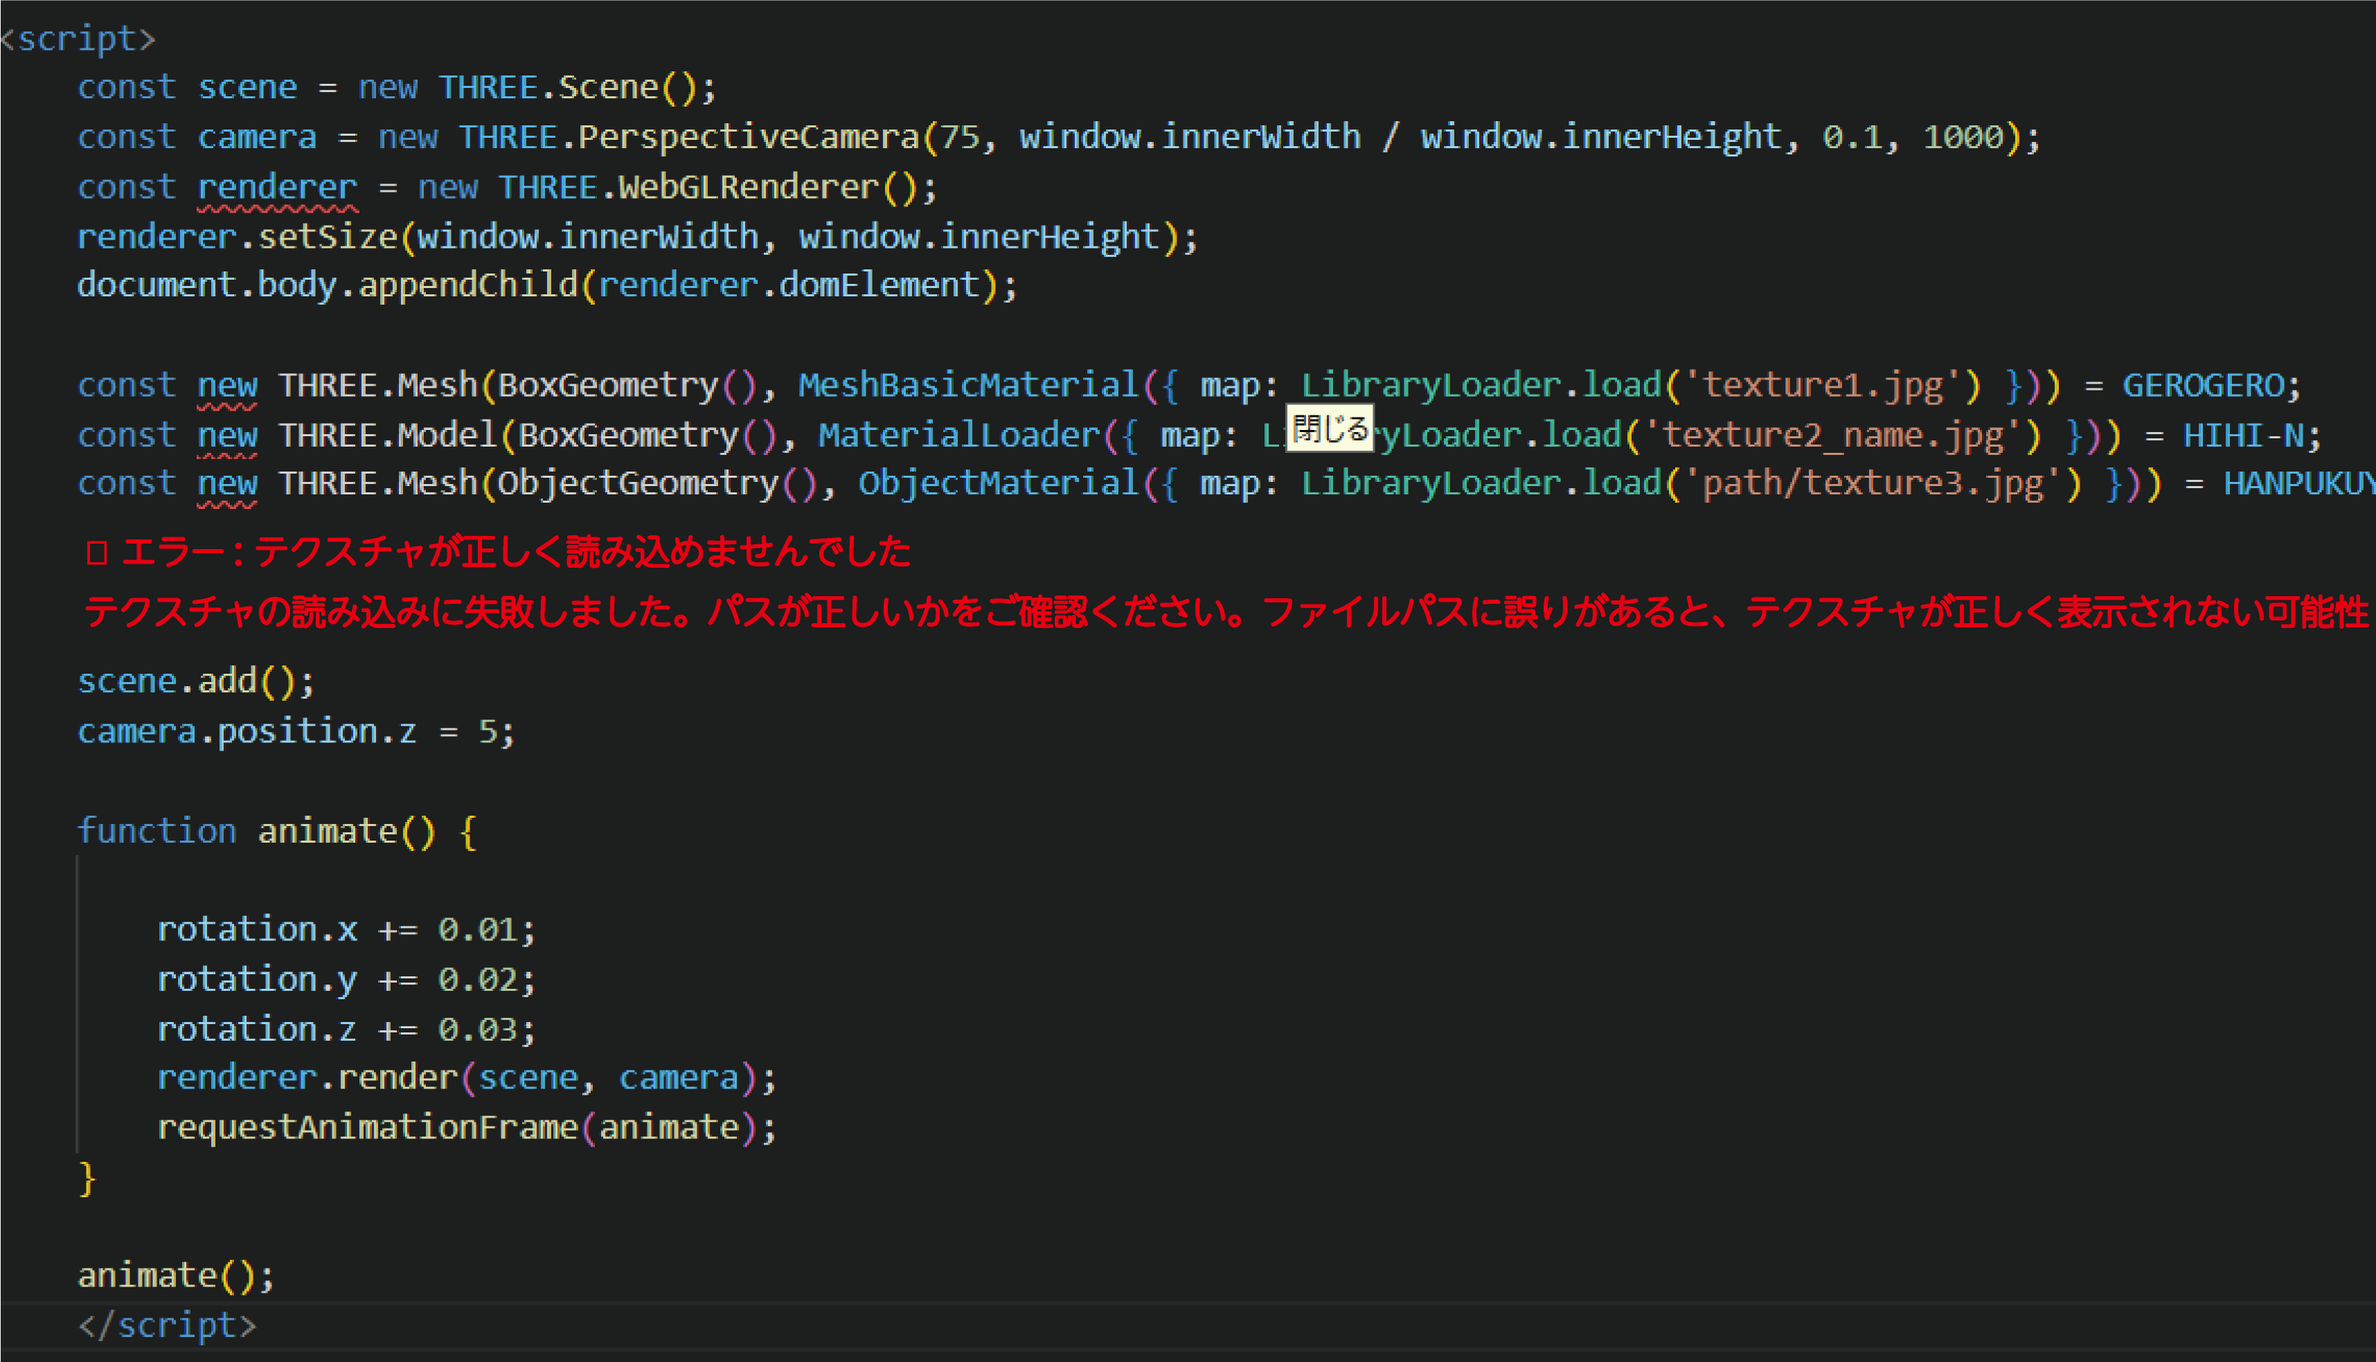
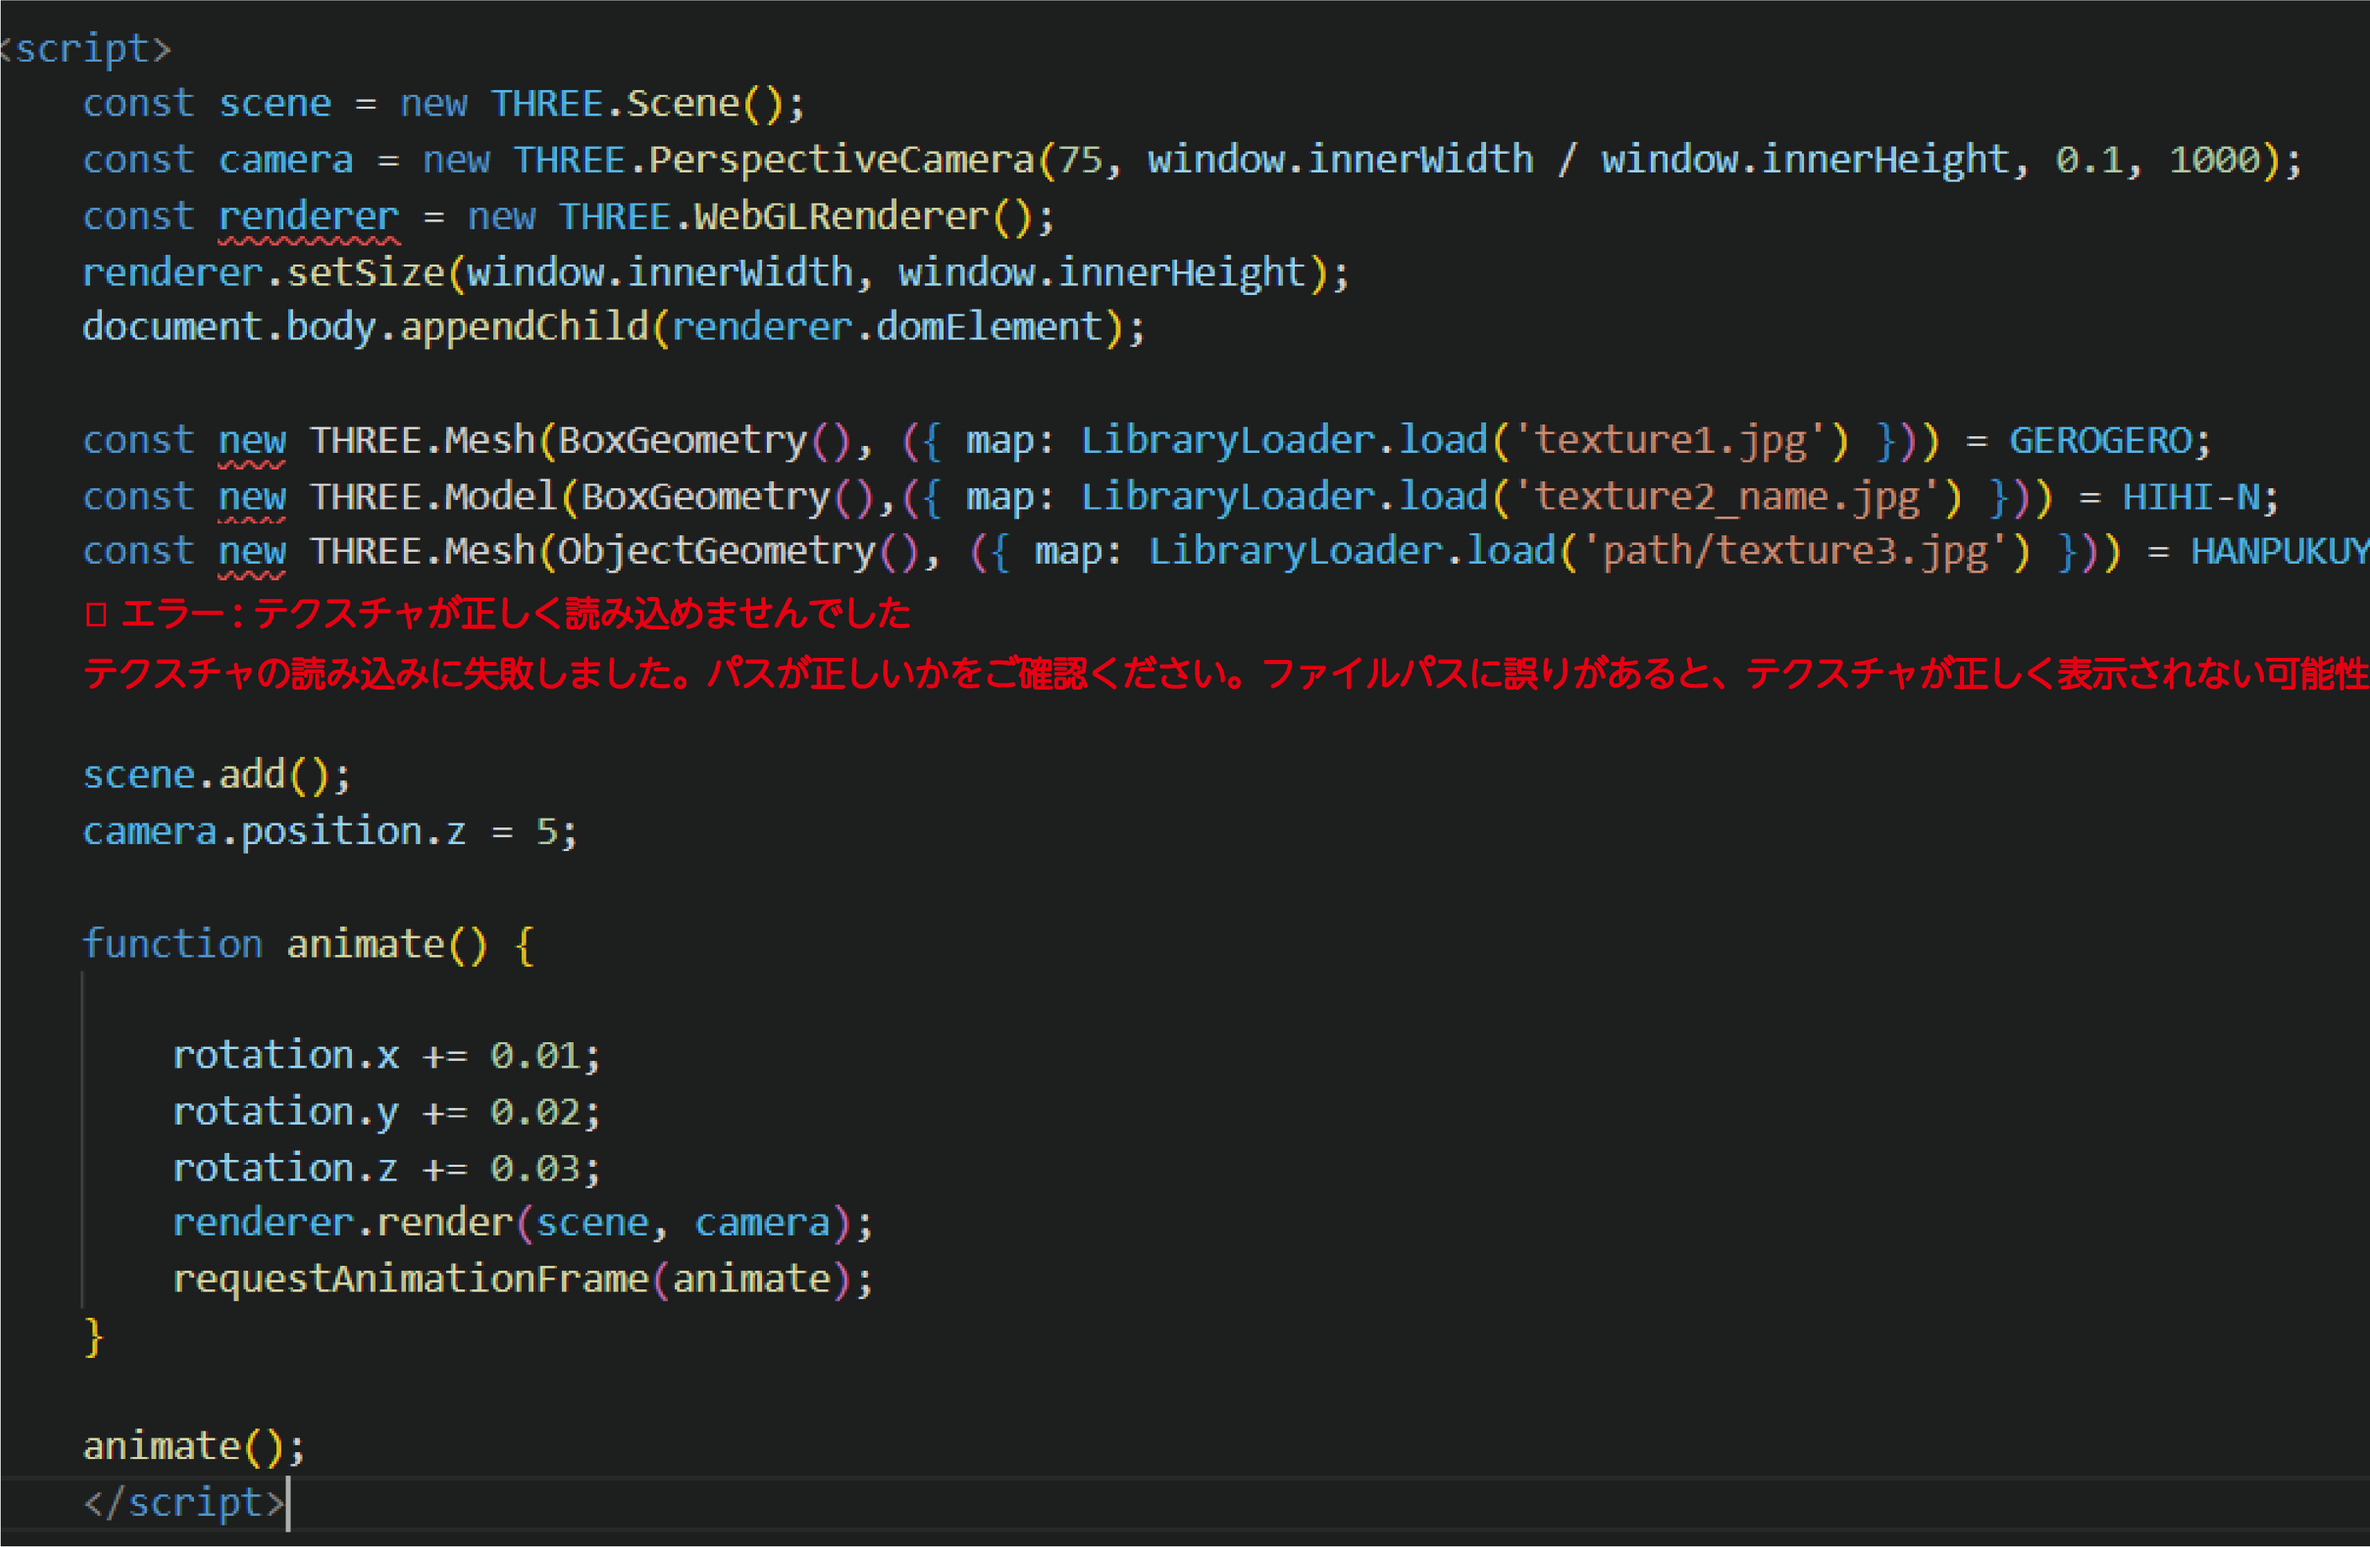
a

diff --git a/rules.html b/rules.html
@@ -223,11 +223,12 @@ sceneObjects.forEach(obj => scene.add(obj));
     renderer.setSize(window.innerWidth, window.innerHeight);
     document.body.appendChild(renderer.domElement);
     
-    const new THREE.Mesh(BoxGeometry(), MeshBasicMaterial({ map: LibraryLoader.load('texture1.jpg') })) = GEROGERO;
-    const new THREE.Model(BoxGeometry(), MaterialLoader({ map: LibraryLoader.load('texture2_name.jpg') })) = HIHI-N;
-    const new THREE.Mesh(ObjectGeometry(), ObjectMaterial({ map: LibraryLoader.load('path/texture3.jpg') })) = HANPUKUYOKOTOBI;
+    const new THREE.Mesh(BoxGeometry(), ({ map: LibraryLoader.load('texture1.jpg') })) = GEROGERO;
+    const new THREE.Model(BoxGeometry(),({ map: LibraryLoader.load('texture2_name.jpg') })) = HIHI-N;
+    const new THREE.Mesh(ObjectGeometry(), ({ map: LibraryLoader.load('path/texture3.jpg') })) = HANPUKUYOKOTOBI;
 
     
+
     scene.add();
     camera.position.z = 5;
     

diff --git a/question-8.html b/question-8.html
@@ -242,6 +242,7 @@
             margin-bottom: 20px;
         }
 
+        /* デフォルト: スマホ用に全幅 */
         .memo-image {
             max-width: 100%;
             height: auto;
@@ -250,6 +251,14 @@
             box-shadow: 0 4px 10px rgba(0, 0, 0, 0.15);
             transition: transform 0.3s ease;
         }
+
+        /* パソコン用に最大幅を制限 */
+        @media (min-width: 768px) {
+            .memo-image {
+                max-width: 600px; /* 必要に応じて調整 */
+            }
+        }
+
 
 
 
